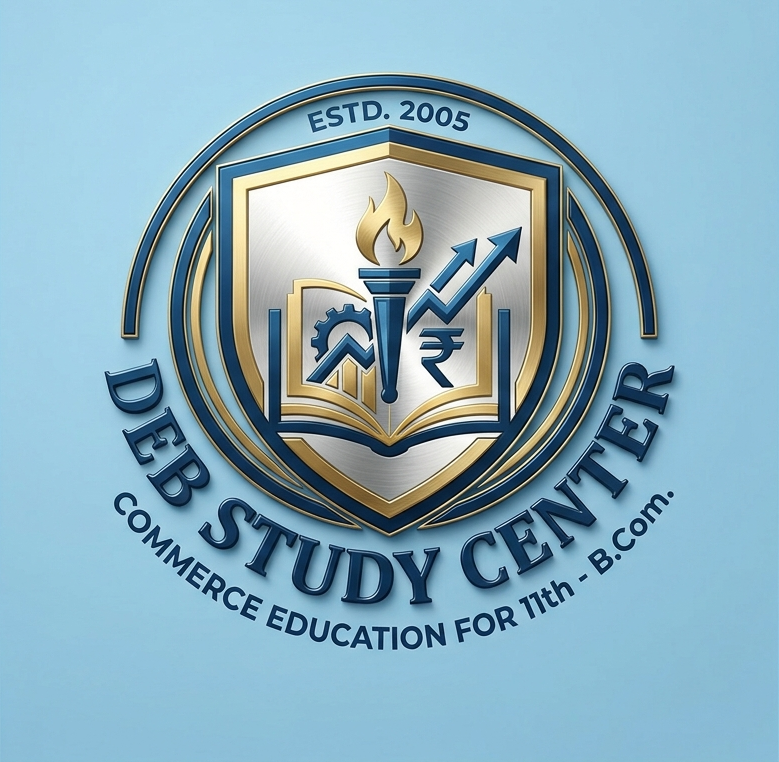
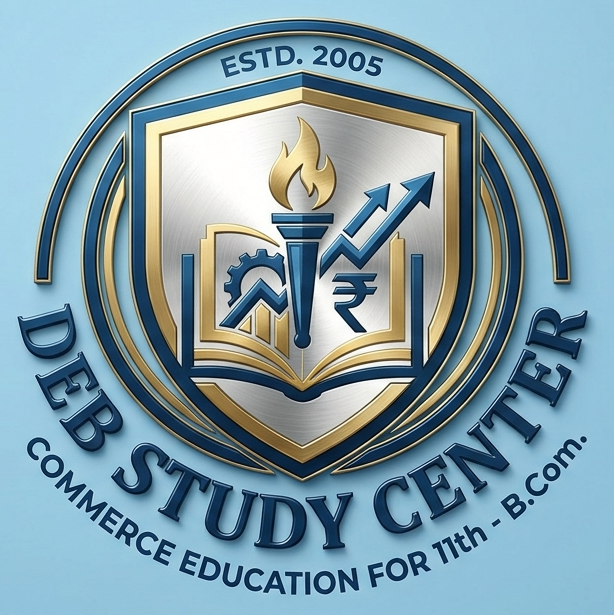
latest nav-bar

diff --git a/index.html b/index.html
@@ -11,20 +11,72 @@
             --sky-blue: #f0f7ff;
             --accent-gold: #c5a059;
             --text-dark: #2c3e50;
-            --header-height: 85px;
+            --header-height: 100px;
         }
 
         html { scroll-behavior: smooth; scroll-padding-top: var(--header-height); }
         * { margin: 0; padding: 0; box-sizing: border-box; font-family: 'Segoe UI', Roboto, sans-serif; }
         body { color: var(--text-dark); background-color: #fff; overflow-x: hidden; }
 
-        /* Navigation */
-        nav { background: white; height: var(--header-height); padding: 0 8%; display: flex; justify-content: space-between; align-items: center; position: fixed; top: 0; width: 100%; z-index: 1000; box-shadow: 0 4px 15px rgba(0,0,0,0.08); }
-        .logo-box { display: flex; align-items: center; gap: 15px; }
-        nav ul { display: flex; list-style: none; gap: 30px; }
-        nav ul li a { text-decoration: none; color: var(--primary-blue); font-weight: 700; font-size: 0.9rem; text-transform: uppercase; transition: 0.3s; }
-        nav ul li a.active { color: var(--accent-gold); border-bottom: 3px solid var(--accent-gold); }
+        
+/* Navigation */
+nav {
+    background: #78d2e8;
+    height: var(--header-height);
+    padding: 0 5%;
+    display: flex;
+    justify-content: space-between;
+    align-items: center;
+    position: fixed;
+    top: 0;
+    left: 0;
+    width: 100%;
+    z-index: 1000;
+    box-shadow: 0 3px 12px rgba(0, 0, 0, 0.12);
+}
 
+/* Logo */
+.logo-box {
+    display: flex;
+    align-items: center;
+    height: 100%;
+}
+
+.logo-box img {
+    width: 200px;
+    height: 100px;
+    display: block;
+    object-fit: contain;
+}
+
+/* Navigation Links */
+nav ul {
+    display: flex;
+    list-style: none;
+    gap: 38px;
+    align-items: center;
+    height: 100%;
+}
+
+nav ul li a {
+    text-decoration: none;
+    color: var(--primary-blue);
+    font-weight: 600;
+    font-size: 1rem;
+    text-transform: uppercase;
+    letter-spacing: 0.5px;
+    transition: all 0.25s ease;
+    padding: 8px 0;
+}
+
+nav ul li a:hover {
+    color: var(--accent-gold);
+}
+
+nav ul li a.active {
+    color: var(--accent-gold);
+    border-bottom: 3px solid var(--accent-gold);
+}
         /* HERO SLIDER SECTION */
         .hero-container {
             margin-top: var(--header-height);
@@ -146,13 +198,17 @@
 <body>
 
     <nav>
-        <div class="logo-box">
-            <!-- Simulated Logo -->
-            <div style="background: var(--primary-blue); width: 50px; height: 50px; border-radius: 50%; color: white; display: flex; align-items: center; justify-content: center; font-size: 8px; font-weight: bold; text-align: center;">DEB LOGO</div>
+      <div class="logo-box">
+    <img 
+        src="DEB Study Center.png" 
+        alt="DEB Study Center Logo">
+        <!--style="width: 200px; height: 150px; display: block;-->
+</div>
+           <!--- <div style="background: var(--primary-blue); width: 50px; height: 50px; border-radius: 50%; color: white; display: flex; align-items: center; justify-content: center; font-size: 8px; font-weight: bold; text-align: center;">DEB LOGO</div>
             <div>
                 <p style="font-weight: 800; color: var(--primary-blue); line-height: 1.1;">DEB STUDY CENTER</p>
                 <p style="color: var(--accent-gold); font-size: 0.75rem; font-weight: bold;">SHIBPUR • ESTD. 2005</p>
-            </div>
+            </div> -->
         </div>
         <ul>
             <li><a href="#home" class="nav-link active">Home</a></li>
